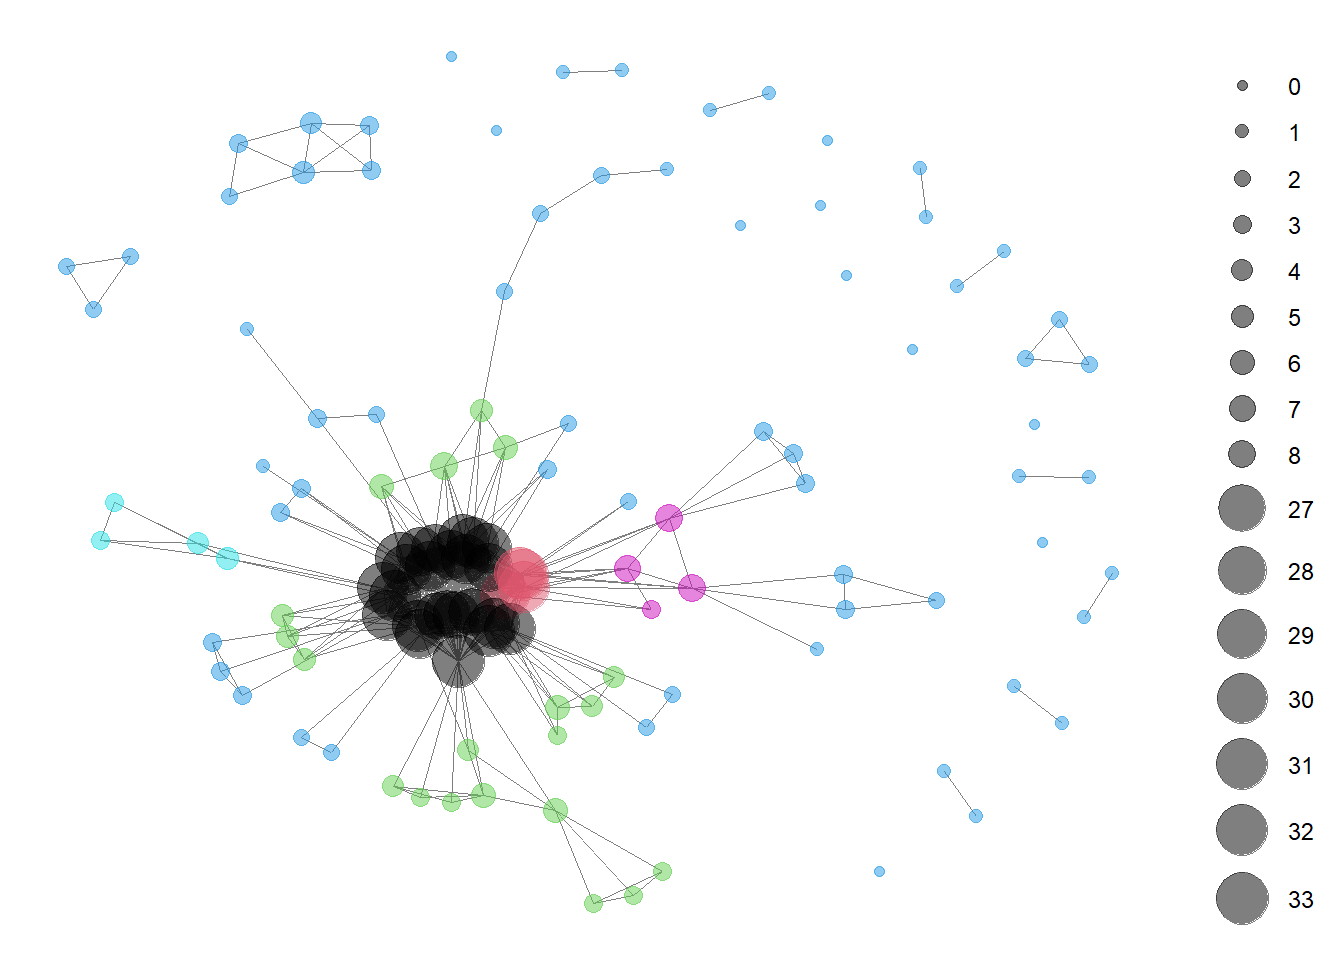
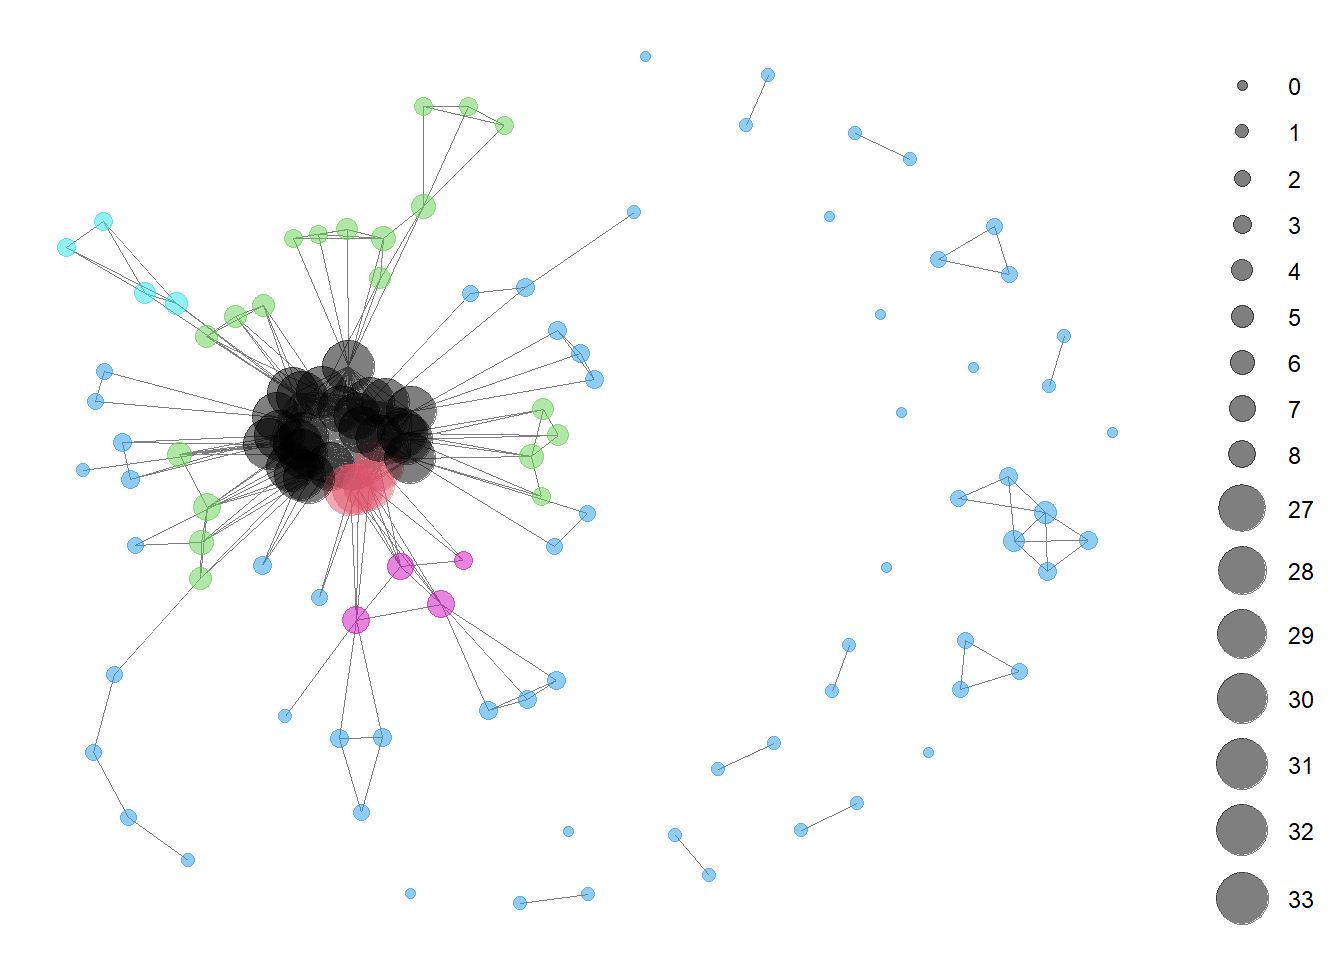
update with patient jaccard

diff --git a/docs/posts/Post_Three/post_3.html b/docs/posts/Post_Three/post_3.html
@@ -9,7 +9,7 @@
 <meta name="author" content="Sue-Ellen Duffy">
 <meta name="dcterms.date" content="2024-04-25">
 
-<title>Social_Networks_Blog_Space - Network Block Modeling</title>
+<title>Social_Networks_Blog_Space - Network Block Modeling - Patients</title>
 <style>
 code{white-space: pre-wrap;}
 span.smallcaps{font-variant: small-caps;}
@@ -142,7 +142,7 @@ pre > code.sourceCode > span > a:first-child::before { text-decoration: underlin
 <header id="title-block-header" class="quarto-title-block default page-columns page-full">
   <div class="quarto-title-banner page-columns page-full">
     <div class="quarto-title column-body">
-      <h1 class="title">Network Block Modeling</h1>
+      <h1 class="title">Network Block Modeling - Patients</h1>
                                 <div class="quarto-categories">
                 <div class="quarto-category">code</div>
                 <div class="quarto-category">analysis</div>
@@ -366,6 +366,53 @@ Block 6 0.00000000 0.750000000 0.000000000 0.023076923 0.00000 0.66666667</code>
 </div>
 <div class="cell-output-display">
 <p><img src="post_3_files/figure-html/unnamed-chunk-17-1.png" class="img-fluid" width="672"></p>
+</div>
+</div>
+<div class="cell">
+<div class="sourceCode cell-code" id="cb25"><pre class="sourceCode r code-with-copy"><code class="sourceCode r"><span id="cb25-1"><a href="#cb25-1" aria-hidden="true" tabindex="-1"></a><span class="fu">library</span>(ade4)</span></code><button title="Copy to Clipboard" class="code-copy-button"><i class="bi"></i></button></pre></div>
+<div class="cell-output cell-output-stderr">
+<pre><code>Warning: package 'ade4' was built under R version 4.3.3</code></pre>
+</div>
+</div>
+<div class="cell">
+<div class="sourceCode cell-code" id="cb27"><pre class="sourceCode r code-with-copy"><code class="sourceCode r"><span id="cb27-1"><a href="#cb27-1" aria-hidden="true" tabindex="-1"></a>encounters.adj.ig <span class="ot">&lt;-</span> igraph<span class="sc">::</span><span class="fu">as_biadjacency_matrix</span>(encounters.ig)</span>
+<span id="cb27-2"><a href="#cb27-2" aria-hidden="true" tabindex="-1"></a></span>
+<span id="cb27-3"><a href="#cb27-3" aria-hidden="true" tabindex="-1"></a>patients_jaccard <span class="ot">&lt;-</span> <span class="fu">dist.binary</span>(encounters.adj.ig,</span>
+<span id="cb27-4"><a href="#cb27-4" aria-hidden="true" tabindex="-1"></a>            <span class="at">method =</span> <span class="dv">1</span>, <span class="co"># method=1 Jaccard index</span></span>
+<span id="cb27-5"><a href="#cb27-5" aria-hidden="true" tabindex="-1"></a>            <span class="at">upper =</span> <span class="cn">TRUE</span>,</span>
+<span id="cb27-6"><a href="#cb27-6" aria-hidden="true" tabindex="-1"></a>            <span class="at">diag =</span> <span class="cn">FALSE</span>)</span>
+<span id="cb27-7"><a href="#cb27-7" aria-hidden="true" tabindex="-1"></a></span>
+<span id="cb27-8"><a href="#cb27-8" aria-hidden="true" tabindex="-1"></a></span>
+<span id="cb27-9"><a href="#cb27-9" aria-hidden="true" tabindex="-1"></a>patients_jaccard <span class="ot">&lt;-</span> <span class="fu">as.matrix</span>(patients_jaccard)</span>
+<span id="cb27-10"><a href="#cb27-10" aria-hidden="true" tabindex="-1"></a><span class="fu">diag</span>(patients_jaccard) <span class="ot">&lt;-</span> <span class="dv">0</span></span></code><button title="Copy to Clipboard" class="code-copy-button"><i class="bi"></i></button></pre></div>
+</div>
+<div class="cell">
+<div class="sourceCode cell-code" id="cb28"><pre class="sourceCode r code-with-copy"><code class="sourceCode r"><span id="cb28-1"><a href="#cb28-1" aria-hidden="true" tabindex="-1"></a><span class="co">#binarize</span></span>
+<span id="cb28-2"><a href="#cb28-2" aria-hidden="true" tabindex="-1"></a>patients_jaccard_bi <span class="ot">&lt;-</span> <span class="fu">ifelse</span>(patients_jaccard <span class="sc">&gt;</span> <span class="fl">0.99</span>, <span class="dv">1</span>, <span class="dv">0</span>)</span></code><button title="Copy to Clipboard" class="code-copy-button"><i class="bi"></i></button></pre></div>
+</div>
+<div class="cell">
+<div class="sourceCode cell-code" id="cb29"><pre class="sourceCode r code-with-copy"><code class="sourceCode r"><span id="cb29-1"><a href="#cb29-1" aria-hidden="true" tabindex="-1"></a><span class="co">#create igraph object</span></span>
+<span id="cb29-2"><a href="#cb29-2" aria-hidden="true" tabindex="-1"></a>patients_jaccard.ig <span class="ot">&lt;-</span> <span class="fu">graph_from_adjacency_matrix</span>(patients_jaccard_bi, <span class="at">mode =</span> <span class="st">"undirected"</span>)</span>
+<span id="cb29-3"><a href="#cb29-3" aria-hidden="true" tabindex="-1"></a>patients_jaccard.ig</span></code><button title="Copy to Clipboard" class="code-copy-button"><i class="bi"></i></button></pre></div>
+<div class="cell-output cell-output-stdout">
+<pre><code>IGRAPH cc4c8b4 UN-- 121 6723 -- 
++ attr: name (v/c)
++ edges from cc4c8b4 (vertex names):
+ [1] Akiko835 Larkin917--Anneliese170 Berge125  
+ [2] Akiko835 Larkin917--Anthony633 Renner328   
+ [3] Akiko835 Larkin917--Ashlie138 Williamson769
+ [4] Akiko835 Larkin917--Avril120 Olson653      
+ [5] Akiko835 Larkin917--Basil991 Hilll811      
+ [6] Akiko835 Larkin917--Benjamin360 Hintz995   
+ [7] Akiko835 Larkin917--Brendan864 MacGyver246 
+ [8] Akiko835 Larkin917--Bula88 Prohaska837     
++ ... omitted several edges</code></pre>
+</div>
+</div>
+<div class="cell">
+<div class="sourceCode cell-code" id="cb31"><pre class="sourceCode r code-with-copy"><code class="sourceCode r"><span id="cb31-1"><a href="#cb31-1" aria-hidden="true" tabindex="-1"></a><span class="fu">plot</span>(patients_jaccard.ig,  <span class="at">edge.width =</span> <span class="fl">0.0002</span>, <span class="at">edge.color =</span> <span class="st">"lightgray"</span>,  <span class="at">vertex.size =</span> <span class="dv">2</span>, <span class="at">vertex.label =</span> <span class="cn">NA</span>)</span></code><button title="Copy to Clipboard" class="code-copy-button"><i class="bi"></i></button></pre></div>
+<div class="cell-output-display">
+<p><img src="post_3_files/figure-html/unnamed-chunk-22-1.png" class="img-fluid" width="672"></p>
 </div>
 </div>
 

diff --git a/docs/index.html b/docs/index.html
@@ -170,7 +170,7 @@ ul.task-list li input[type="checkbox"] {
 
 <div class="quarto-listing quarto-listing-container-default" id="listing-listing">
 <div class="list quarto-listing-default">
-<div class="quarto-post image-right" data-index="0" data-categories="code,analysis,block_model" data-listing-date-sort="1714017600000" data-listing-file-modified-sort="1714082173246" data-listing-date-modified-sort="NaN" data-listing-reading-time-sort="5">
+<div class="quarto-post image-right" data-index="0" data-categories="code,analysis,block_model" data-listing-date-sort="1714017600000" data-listing-file-modified-sort="1714082569716" data-listing-date-modified-sort="NaN" data-listing-reading-time-sort="4">
 <div class="thumbnail">
 <p><a href="./posts/Post_Four/post_4.html"> <p class="card-img-top"><img src="posts\Post_Four\post_4_files\figure-html\unnamed-chunk-8-1.png"  class="thumbnail-image card-img"/></p> </a></p>
 </div>
@@ -211,14 +211,14 @@ Sue-Ellen Duffy
 </a>
 </div>
 </div>
-<div class="quarto-post image-right" data-index="1" data-categories="code,analysis,block_model" data-listing-date-sort="1714017600000" data-listing-file-modified-sort="1714074101090" data-listing-date-modified-sort="NaN" data-listing-reading-time-sort="3">
+<div class="quarto-post image-right" data-index="1" data-categories="code,analysis,block_model" data-listing-date-sort="1714017600000" data-listing-file-modified-sort="1714082661231" data-listing-date-modified-sort="NaN" data-listing-reading-time-sort="3">
 <div class="thumbnail">
 <p><a href="./posts/Post_Three/post_3.html"> <p class="card-img-top"><img src="posts\Post_Three\post_3_files\figure-html\unnamed-chunk-8-1.png"  class="thumbnail-image card-img"/></p> </a></p>
 </div>
 <div class="body">
 <a href="./posts/Post_Three/post_3.html">
 <h3 class="no-anchor listing-title">
-Network Block Modeling
+Network Block Modeling - Patients
 </h3>
 <div class="listing-subtitle">
 
